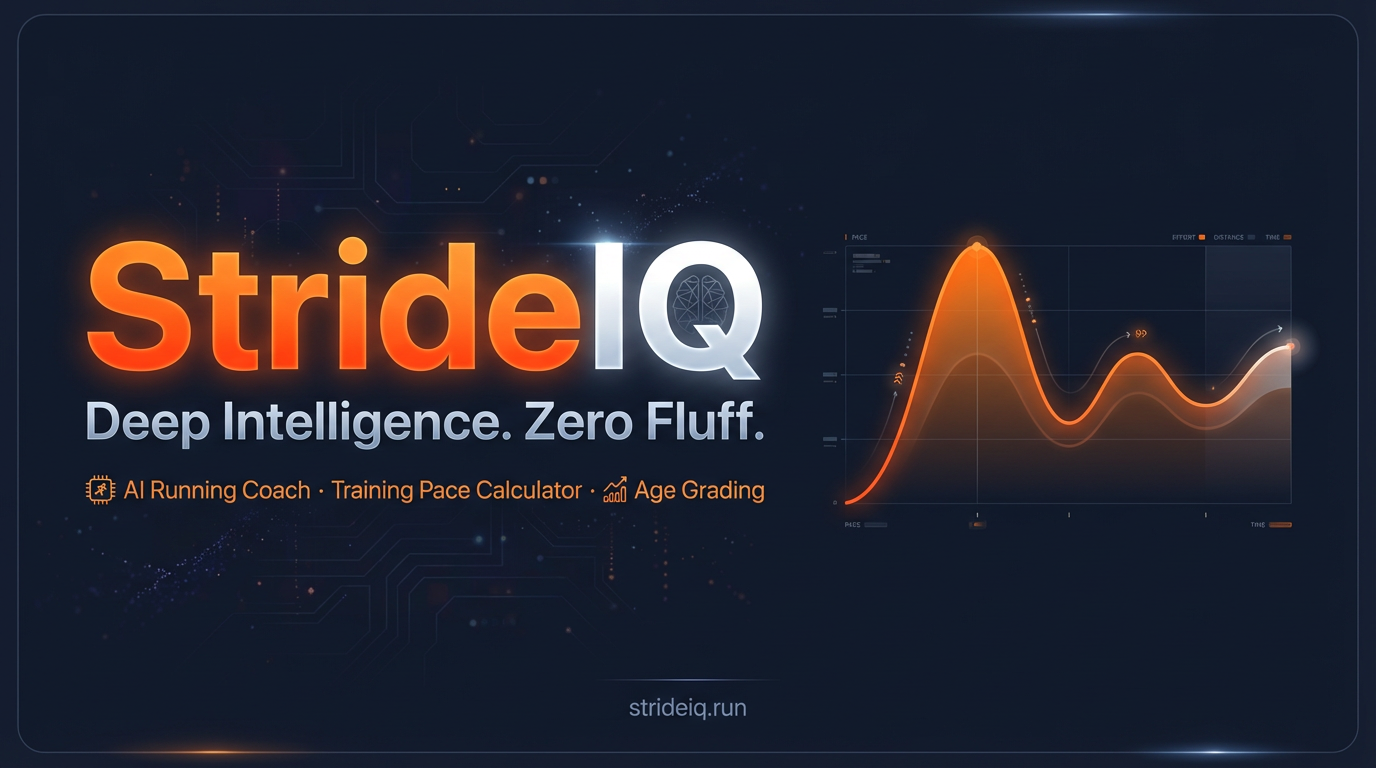
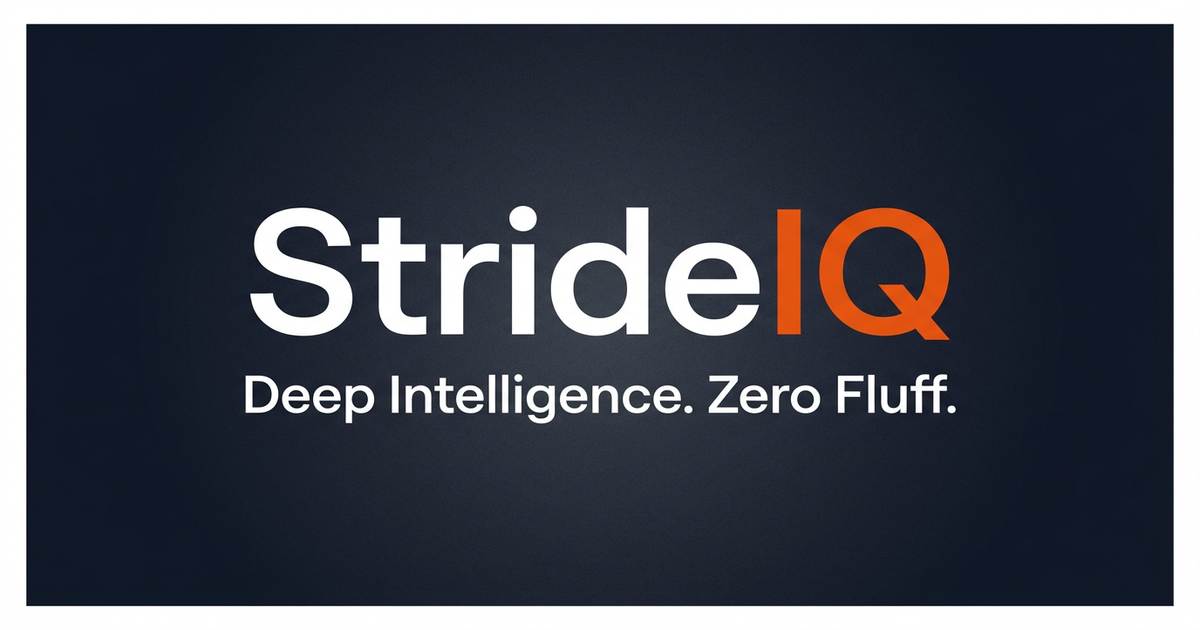
fix(seo): improve OG description and regenerate high-res OG image

diff --git a/apps/web/app/layout.tsx b/apps/web/app/layout.tsx
@@ -12,12 +12,15 @@ import { TooltipProvider } from '@/components/ui/tooltip'
 import { ImpersonationBanner } from '@/components/admin/ImpersonationBanner'
 import './globals.css'
 
+const META_DESCRIPTION =
+  'Your body has a voice. StrideIQ is AI running intelligence that turns your data into decisions — training paces, trend signals, and coaching that adapts to you.'
+
 export const metadata: Metadata = {
   title: {
     default: 'StrideIQ - AI Running Coach & Training Intelligence',
     template: '%s | StrideIQ'
   },
-  description: 'Free training pace calculator, age-grading calculator, and heat-adjusted pace tools. Evidence-based AI running coach that correlates sleep, nutrition, and training with your performance.',
+  description: META_DESCRIPTION,
   authors: [{ name: 'StrideIQ' }],
   creator: 'StrideIQ',
   openGraph: {
@@ -25,14 +28,14 @@ export const metadata: Metadata = {
     locale: 'en_US',
     siteName: 'StrideIQ',
     title: 'StrideIQ - AI Running Coach & Training Intelligence',
-    description: 'Free training pace calculator, age-grading calculator, and heat-adjusted pace tools. Evidence-based AI running coach that correlates sleep, nutrition, and training with your performance.',
+    description: META_DESCRIPTION,
     images: [{ url: '/og-image.png', width: 1200, height: 630, alt: 'StrideIQ - AI Running Coach' }],
     url: 'https://strideiq.run',
   },
   twitter: {
     card: 'summary_large_image',
     title: 'StrideIQ - AI Running Coach & Training Intelligence',
-    description: 'Free training pace calculator, age-grading, and heat-adjusted pace tools. Evidence-based AI running coach.',
+    description: META_DESCRIPTION,
     images: ['/og-image.png'],
   },
   robots: {
